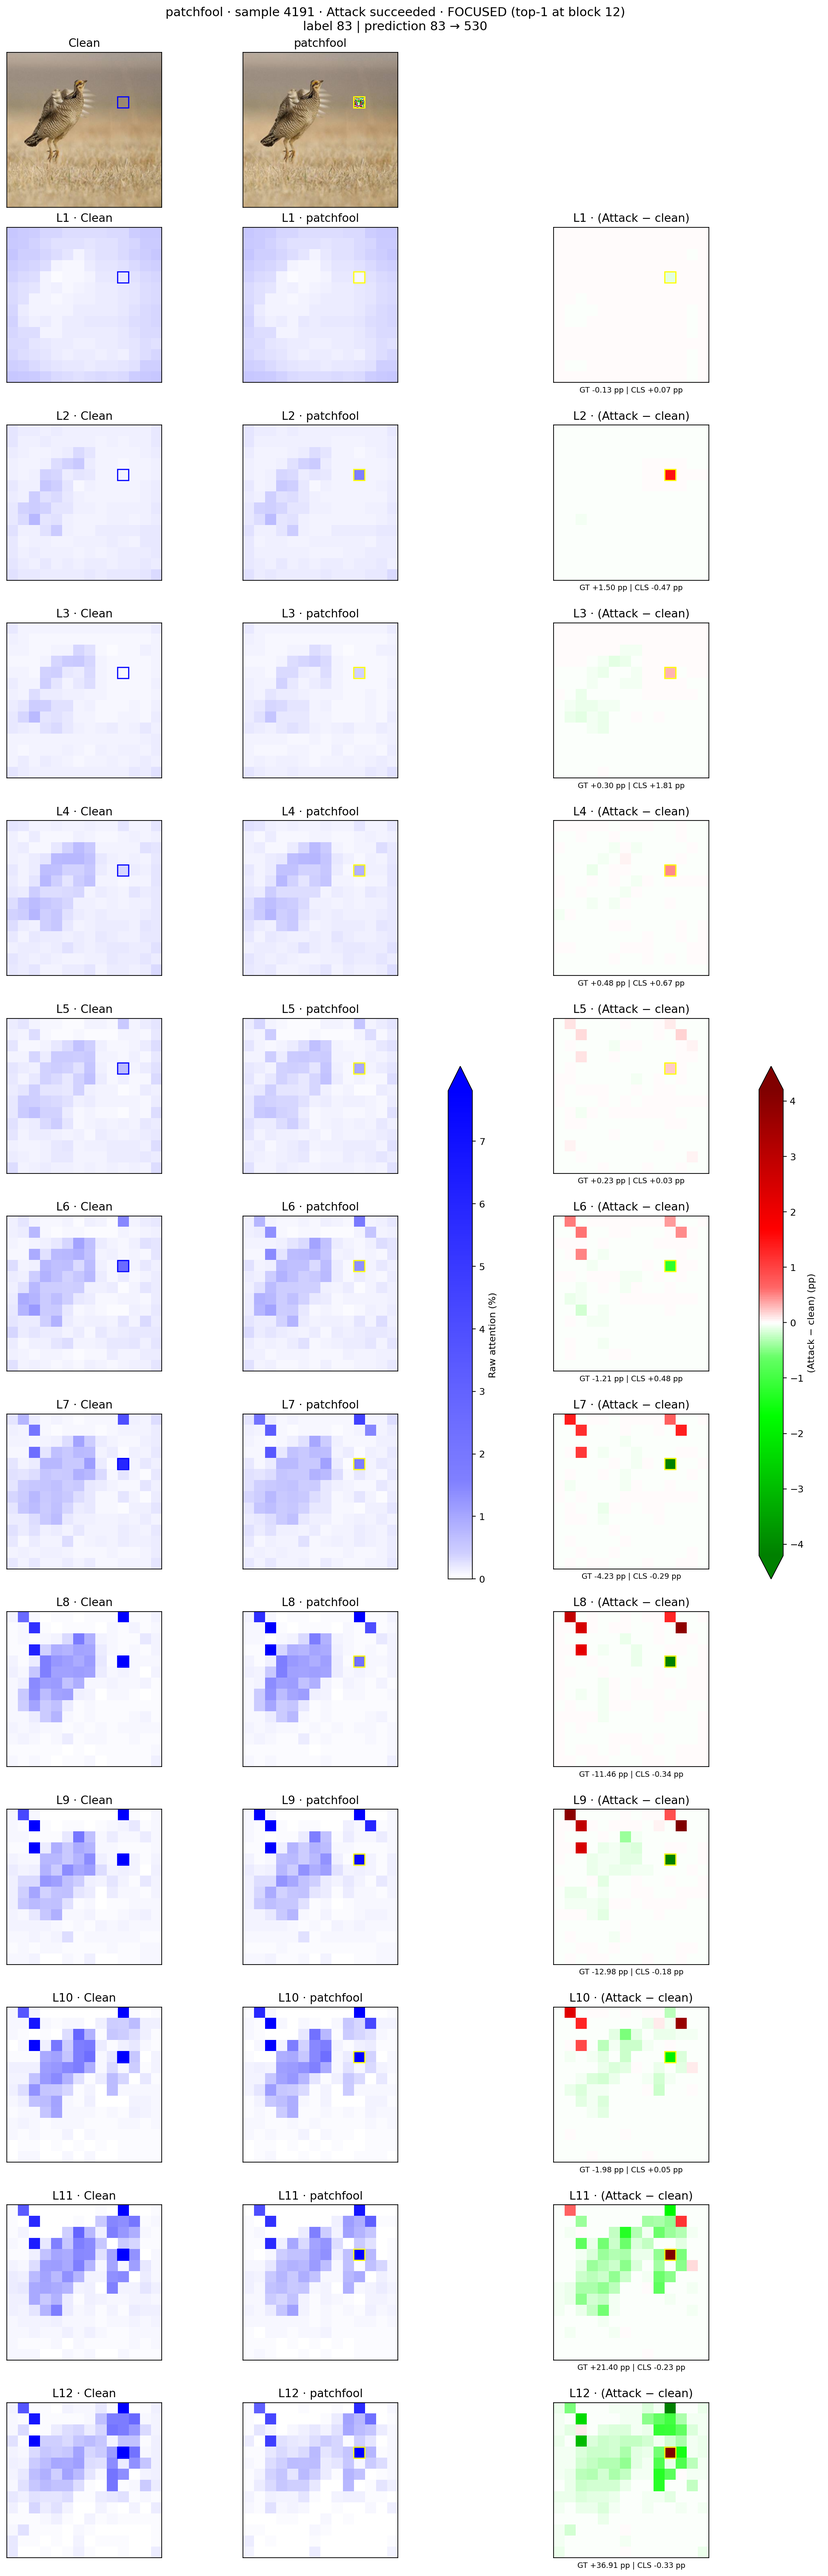
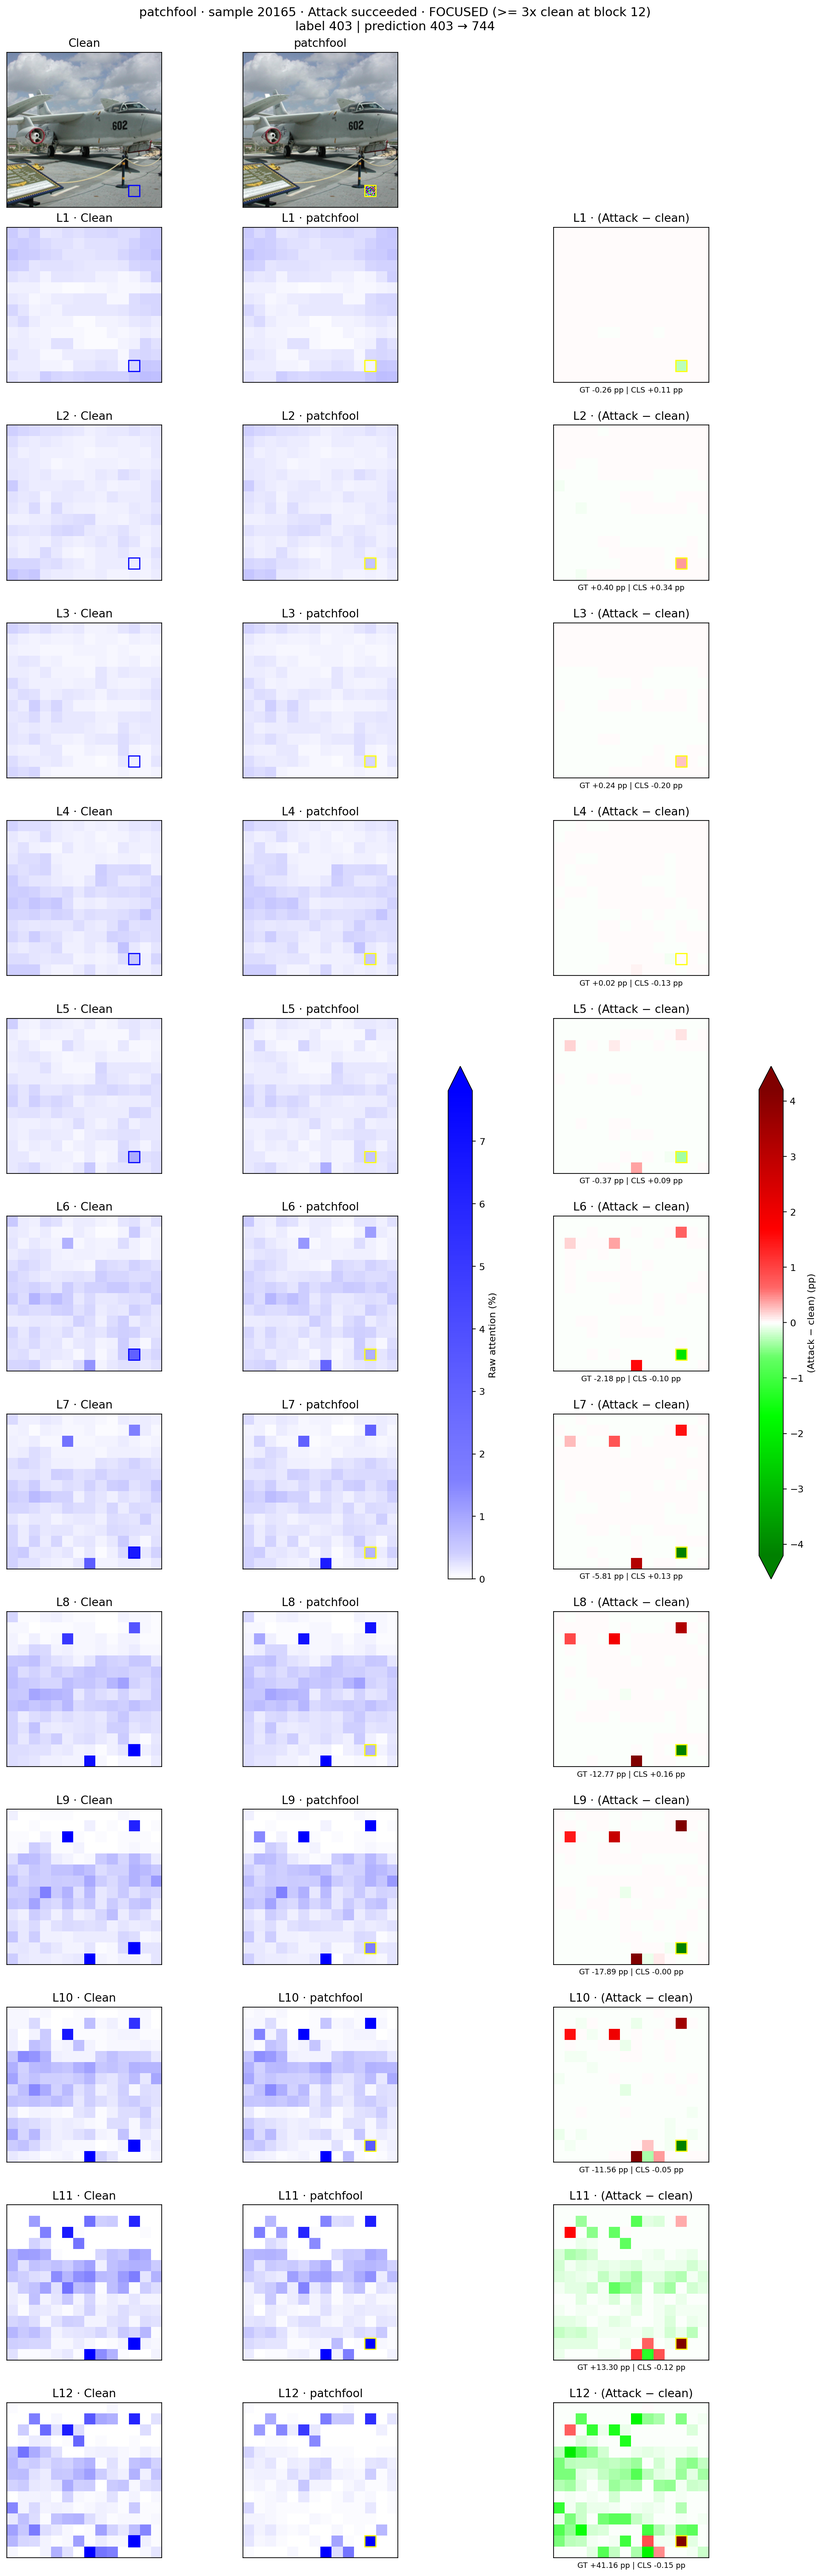
Focus criterion: attacked patch attention >= 3x the clean value at block 12 (rank-1 is confounded by the clean baseline)

diff --git a/01_patch_attack_detector/experiments/characterization/03_patchfool_success_split.py b/01_patch_attack_detector/experiments/characterization/03_patchfool_success_split.py
@@ -2,8 +2,9 @@
 "안 몰린 애"로 나눠 레이어별로 비교한다. 02와 같은 실행 폴더를 입력으로 쓰고, 02의 검증/맵 함수를
 그대로 가져다 쓴다. 기존 결과 파일은 건드리지 않고 새 PNG 3장(focused 12개 블록, focused 6·9·12 블록)만 만든다.
 
-몰림의 정의(임계값 없음): 마지막 블록(12)에서 공격 패치가 CLS attention(헤드 평균)의 196개 patch 중
-1등이다. 배포용 Top-K 탐지기가 의심 위치를 argmax로 잡는 것과 같은 기준이다.
+몰림의 정의: 마지막 블록(12)에서 공격 패치가 받는 CLS attention(헤드 평균)이 **같은 이미지 원본에서 그
+patch가 받던 값의 FOCUS_RATIO(3)배 이상**이다. 순위(1등인가)는 원본에서도 그 patch가 77% 1등이라 공격 효과를
+거의 못 가려서, 원본 기준선을 반영하는 배수로 잡았다.
 """
 import argparse
 import importlib.util
@@ -17,6 +18,7 @@ compare02 = importlib.util.module_from_spec(spec)
 spec.loader.exec_module(compare02)
 
 ATTACK = 'patchfool'
+FOCUS_RATIO = 3
 LAYERS_OF_INTEREST = (7, 8)   # 논문(ARMOR)의 예시 그림에서 "activated" 단계로 나온 구간 근처
 
 
@@ -52,29 +54,29 @@ def main():
 
     attacked_pct, clean_pct, rank = attacked_patch_series(metrics, gt_patch)
     last = rank.shape[1] - 1
-    focused = success & (rank[:, last] == 1)
+    ratio = attacked_pct[:, last] / clean_pct[:, last]
+    focused = success & (ratio >= FOCUS_RATIO)
     unfocused = success & ~focused
     if not focused.any() or not unfocused.any():
         raise ValueError(f'집단이 비었습니다: focused={focused.sum()}, not focused={unfocused.sum()}')
+    failed = outcome == 0
 
-    # 대표 예시: focused는 마지막 블록 값이 집단 중앙값에 가장 가까운 표본, not focused는 전 레이어에서
-    # 공격 패치 attention의 최댓값이 가장 작은 표본(= 공격 패치를 가장 안 본 표본).
+    # 대표 예시: focused 집단에서 마지막 블록의 공격 패치 attention이 집단 중앙값에 가장 가까운 표본.
     scales = compare02.map_scales(metrics, outcome)
     focused_idx = np.flatnonzero(focused)
     pick_focused = int(focused_idx[np.argmin(np.abs(attacked_pct[focused_idx, last]
                                                     - np.median(attacked_pct[focused_idx, last])))])
-    unfocused_idx = np.flatnonzero(unfocused)
-    pick_unfocused = int(unfocused_idx[np.argmin(attacked_pct[unfocused_idx].max(axis=1))])
     layers = list(range(manifest['n_layers']))
     compare02.draw_maps(data, manifest, ATTACK, pick_focused, metrics, layers, scales,
-                        f'Attack succeeded · FOCUSED (top-1 at block {last + 1})',
+                        f'Attack succeeded · FOCUSED (>= {FOCUS_RATIO}x clean at block {last + 1})',
                         output / 'attack_success_focused.png')
     # focused 예시를 6·9·12 블록만 (12개 전부는 세로로 너무 길어서)
     compare02.draw_maps(data, manifest, ATTACK, pick_focused, metrics, [5, 8, 11], scales,
-                        f'Attack succeeded · FOCUSED (top-1 at block {last + 1})',
+                        f'Attack succeeded · FOCUSED (>= {FOCUS_RATIO}x clean at block {last + 1})',
                         output / 'attack_success_focused_L6_L9_L12.png')
-    print(f'focused example: sample {int(data["sample_index"][pick_focused])}, '
-          f'not-focused example: sample {int(data["sample_index"][pick_unfocused])}')
+    print(f'focused example: sample {int(data["sample_index"][pick_focused])}')
+    print(f'ratio >= {FOCUS_RATIO} at block {last + 1}: successes {focused.sum()}/{success.sum()}, '
+          f'failures {(failed & (ratio >= FOCUS_RATIO)).sum()}/{failed.sum()}')
 
     for block in LAYERS_OF_INTEREST:
         b = block - 1
